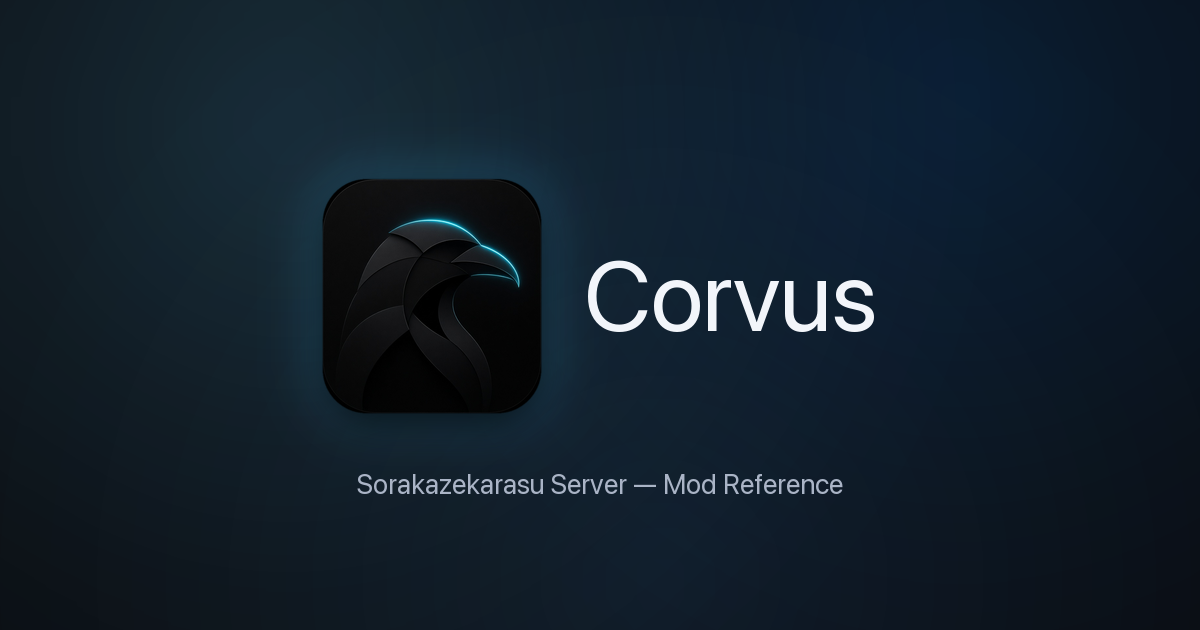
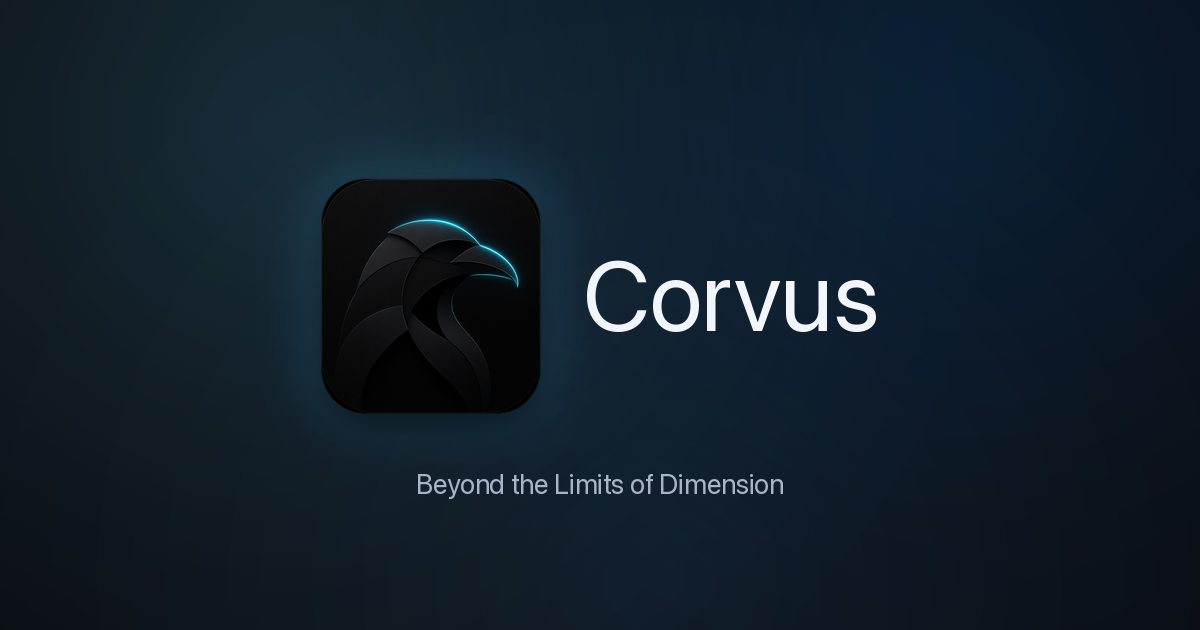
wiki: the share card's line is 'Beyond the Limits of Dimension'

diff --git a/scripts/make_brand_assets.py b/scripts/make_brand_assets.py
@@ -196,7 +196,7 @@ def og_card(tile, width=1200, height=630):
         # Brand line, not a disclaimer. The "unofficial" wording lives in the
         # site footer where a disclaimer belongs; a share card that leads with
         # what the site ISN'T reads as apologetic in every feed it appears in.
-        sub = "Sorakazekarasu Server — Mod Reference"
+        sub = "Beyond the Limits of Dimension"
         bb = d.textbbox((0, 0), sub, font=small)
         d.text(((width - (bb[2] - bb[0])) // 2 - bb[0], round(height * 0.74)),
                sub, font=small, fill=(170, 180, 198, 255))
